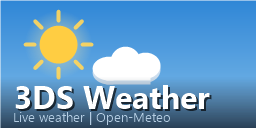
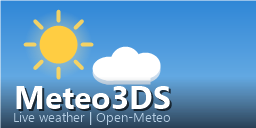
Rename app to Meteo3DS
Renamed from 3DS Weather to avoid a hard filename collision with Dzhmelyk135/Luma3DSWeather, which ships its build as 3ds-weather.3dsx/.elf/.smdh (identical to our previous TARGET). Output is now Meteo3DS.3dsx/.cia; config at sdmc:/3ds/Meteo3DS; SMDH/banner/RSF/User-Agent rebranded.

Changed region(s): [[0.0312, 0.6562, 0.8438, 0.875]]

diff --git a/source/config.c b/source/config.c
@@ -4,7 +4,7 @@
 #include <string.h>
 #include <sys/stat.h>
 
-#define CFG_DIR  "sdmc:/3ds/wetter"
+#define CFG_DIR  "sdmc:/3ds/Meteo3DS"
 #define CFG_PATH CFG_DIR "/config.json"
 
 static bool jsonNum(const char *from, const char *key, double *out) {

diff --git a/source/config.h b/source/config.h
@@ -3,7 +3,7 @@
 #include "i18n.h"
 #include <stdbool.h>
 
-// Persisted settings live at sdmc:/3ds/wetter/config.json:
+// Persisted settings live at sdmc:/3ds/Meteo3DS/config.json:
 //   {"active":0,"cities":[{"name":"...","lat":..,"lon":..}, ...]}
 // Old single-city files {"name","lat","lon"} are still read (migrated on save).
 

diff --git a/source/http.c b/source/http.c
@@ -2,7 +2,7 @@
 #include <stdlib.h>
 #include <string.h>
 
-#define HTTP_USER_AGENT  "3ds-wetter/0.1"
+#define HTTP_USER_AGENT  "Meteo3DS/1.0"
 #define HTTP_MAX_REDIR   5
 #define HTTP_CHUNK       (16 * 1024)
 

diff --git a/source/main.c b/source/main.c
@@ -390,7 +390,7 @@ static void renderBottom(const Forecast *fc, bool loading, float anim) {
 			default: break;
 		}
 	} else {
-		drawText(14, 12, 0.7f, white, "%s", tr("3DS Wetter", "3DS Weather"));
+		drawText(14, 12, 0.7f, white, "Meteo3DS");
 		if (g_status[0]) drawText(14, 70, 0.5f, dim, "%s", g_status);
 	}
 

diff --git a/README.md b/README.md
@@ -1,4 +1,4 @@
-# 3DS Weather
+# Meteo3DS
 
 A polished weather app for the Nintendo 3DS, written from scratch in C with
 [citro2d](https://github.com/devkitPro/citro2d). Live forecasts, animated vector
@@ -33,15 +33,15 @@ HTTP, so it works with the 3DS's outdated certificate store.
 ## Running
 
 Install the `.cia` from the [Releases](../../releases) page via FBI, or copy
-`3ds-weather.3dsx` to your SD card and launch it from the Homebrew Launcher on CFW.
-Settings and cities are stored at `sdmc:/3ds/wetter/config.json`.
+`Meteo3DS.3dsx` to your SD card and launch it from the Homebrew Launcher on CFW.
+Settings and cities are stored at `sdmc:/3ds/Meteo3DS/config.json`.
 
 ## Building
 
 Requires [devkitARM](https://devkitpro.org/) with libctru, citro2d and citro3d.
 
 ```sh
-make            # -> 3ds-weather.3dsx
+make            # -> Meteo3DS.3dsx
 ```
 
 A `.cia` can be built from the resulting `.elf` with `build-cia.ps1` (needs makerom